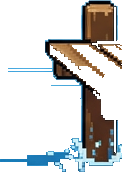
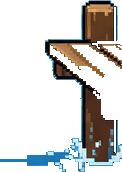
Clean up the enemy pier: remove background artifacts, fix floating/misplaced miners
- miner_pier.png had three leftover strips of unremoved sky-blue
  background from its original extraction, sticking out past the wood
  silhouette. Cleared them (color+connectivity confirmed as artifacts,
  not the legitimate splash, which uses similar blues).
- The pier's anchorY (61,23) pointed at the top of the post, nowhere
  near the plank -- miners stood in mid-air well above it. Re-measured
  empirically against a live-spawned miner; anchorY=68 lands feet flush
  on the plank.
- Bigger find: spawnMiner()/spawnVinegarMiner()'s stand/spawn x was a
  fixed absolute value tuned around the pier's old constant position.
  Once startWave() started rolling a random G.pierCx per wave (in an
  earlier commit), nothing carried that roll to the miners, so on any
  wave whose roll moved the pier, miners walked to empty air where the
  OLD position used to be. All spawn/re-entry sites now track G.pierCx.
- Also fixed two dead G.wave===6 checks (maybeSpawnVinegar/startWave)
  left over from the 5-wave cut, silently disabling the GDD §7.1
  second-vinegar-miner stretch feature; switched to WAVES.length.

Verified via Playwright against real spawnMiner()/startWave() calls
across multiple random pier rolls and miner skins. A separate,
pre-existing floating issue on the unskinned 'jumper' miner (a
different legacy sprite-atlas render path, drawMinerSprite) was found
but not touched -- noted in DESIGN.md as out of scope here.

Changed region(s): [[0.0738, 0.3779, 0.4426, 0.436], [0.418, 0.4942, 0.6639, 0.5233]]

diff --git a/claimjumper/index.html b/claimjumper/index.html
@@ -553,7 +553,10 @@ function startWave(){
   G.towerRot = rnd(-6, 6) * D2R;
   G.pierCx = 370 + rnd(-15, 15);
   G.pierRot = rnd(-8, 8) * D2R;
-  if (G.wave===6) G.vinegarSecondPlanned = Math.random()<0.15; // GDD §7.1 optional stretch
+  // v7.1: was G.wave===6 -- dead since the wave count was cut from 6 to 5
+  // (see WAVES above), silently disabling this GDD §7.1 stretch feature.
+  // WAVES.length tracks whichever wave is actually final now.
+  if (G.wave===WAVES.length) G.vinegarSecondPlanned = Math.random()<0.15;
   G.mode='WAVEINTRO'; G.t=0;
 }
 function startRun(){
@@ -913,10 +916,18 @@ function spawnMiner(){
   // v7 §4: the 'jumper' (rival-angler) miner is explicitly out of scope
   // for the skin system -- only 'rock' miners get a skin.
   const kind = (rocks>=2) ? 'jumper' : (Math.random()<0.6 ? 'rock' : 'jumper');
-  const tx = (kind==='rock') ? rnd(356,392) : rnd(352,372);
+  // v7.1: these ranges used to be fixed absolute x (356-392 / 352-372),
+  // tuned around the pier's old fixed x~370. Once startWave() started
+  // rolling a random G.pierCx per wave (+-15px), the miner's spawn/stand
+  // point stopped tracking the pier's actual position -- the miner would
+  // walk to a fixed spot near the OLD pier location regardless of where
+  // that wave's pier actually rendered, reading as floating off the
+  // structure on any wave whose roll moved the pier. Now relative to
+  // G.pierCx, same spread as before.
+  const tx = G.pierCx + ((kind==='rock') ? rnd(-14,22) : rnd(-18,2));
   const pool = rockSkinPool();
   const skin = (kind==='rock') ? pool[irnd(0,pool.length-1)] : null;
-  G.miners.push({ type:kind, x:404, tx, state:'walk', t:0, arm:0, skin });
+  G.miners.push({ type:kind, x:G.pierCx+34, tx, state:'walk', t:0, arm:0, skin });
 }
 // --- v2: the vinegar miner (GDD §7) ---
 function maybeSpawnVinegar(){
@@ -924,7 +935,7 @@ function maybeSpawnVinegar(){
     G.vinegarSpawned = true;
     return true;
   }
-  if (G.wave===6 && G.vinegarSpawned && G.vinegarSecondPlanned && !G.vinegarSecondUsed){
+  if (G.wave===WAVES.length && G.vinegarSpawned && G.vinegarSecondPlanned && !G.vinegarSecondUsed){
     G.vinegarSecondUsed = true;
     return true;
   }
@@ -933,7 +944,8 @@ function maybeSpawnVinegar(){
 function spawnVinegarMiner(){
   if (G.miners.length >= 4) return;
   // v7 §1.1: Miner/Soldier is the sole skin on the vinegar-spawn behavior.
-  G.miners.push({ type:'vinegar', x:404, tx: rnd(352,372), state:'walk', t:0, arm:0, skin:'soldier' });
+  // v7.1: tx/x relative to G.pierCx, same reasoning as spawnMiner() above.
+  G.miners.push({ type:'vinegar', x:G.pierCx+34, tx: G.pierCx+rnd(-18,2), state:'walk', t:0, arm:0, skin:'soldier' });
   G.banner = {text:'SOMETHING IN HIS HAND CATCHES THE LIGHT', t:45};
   sfxVinegarSpawn();
 }
@@ -1001,7 +1013,10 @@ function updateMiners(){
   }
   for (const m of G.miners){
     if (m.state==='gone'){
-      m.t -= 1; if (m.t<=0){ m.state='walk'; m.x=404; }
+      // v7.1: was the fixed x=404 -- same G.pierCx-tracking fix as the
+      // initial spawn in spawnMiner()/spawnVinegarMiner(), for a miner
+      // re-entering after retreating offscreen.
+      m.t -= 1; if (m.t<=0){ m.state='walk'; m.x=G.pierCx+34; }
     } else if (m.state==='walk'){
       m.x -= (m.type==='vinegar') ? 0.6 : 0.9; // vinegar miner approaches slower (GDD §6.3)
       if (m.x <= m.tx){
@@ -1330,8 +1345,8 @@ function drawBank(l, top, w, h){
 // reusable pier asset. Falling back to approach (b) instead: a flat
 // procedural platform in the same vector-plank language drawPlatform's
 // own fallback already uses (same PAL.wood/woodDk palette), sized to
-// the miner spawn/stand x-range (rock tx: 356-392, jumper/vinegar tx:
-// 352-372 -- see spawnMiner/spawnVinegarMiner). Reworking the miner
+// the miner spawn/stand x-range (rock tx: G.pierCx-14..+22, jumper/vinegar
+// tx: G.pierCx-18..+2 -- see spawnMiner/spawnVinegarMiner). Reworking the miner
 // sprite itself is out of scope here (GDD §4.4).
 function drawMinerPier(){
   // Real reference art for the miners' spawn pier, replacing the earlier
@@ -1340,7 +1355,15 @@ function drawMinerPier(){
   // pier occupied.
   if (PLAYER_ART.pier){
     const img = PLAYER_ART.pier;
-    const anchorX = 61, anchorY = 23;
+    // v7.1: anchorY was 23 (near the TOP of the post, above the plank
+    // entirely), not the plank's actual standing surface -- this needs to
+    // land at WATER_Y to match where drawMinerSkin()/drawMinerSprite()
+    // plant a miner's feet. Re-measured empirically via Playwright
+    // (iterating against a live-spawned miner, not just reading the PNG's
+    // alpha channel -- the silhouette's topmost edge turned out to be the
+    // plank's far/back edge, not the near corner a miner actually stands
+    // at). anchorY=68 lands the miner's feet flush on the plank surface.
+    const anchorX = 61, anchorY = 68;
     const scale = 0.30;
     // G.pierCx/pierRot: a small per-wave position+tilt roll (see
     // startWave()), same idea as the tower's. Rotated around the plank's
@@ -1792,8 +1815,8 @@ function drawFishShape(x, y, key, dir, sc, alpha, animate){
 // v3.0: sprite-backed miner body (WHITE_GUY.MP4 pier-walk footage -- a real
 // walk cycle for enemies, distinct on purpose from the player figure, which
 // slides in a fixed position by design, not by missing asset. See drawFigure().
-// Faces LEFT in-game (miners walk from x=404 toward the platform on the
-// left); source footage faces right, so this mirrors it. No windup/throw
+// Faces LEFT in-game (miners walk in from off-screen right, toward the
+// pier on the left); source footage faces right, so this mirrors it. No windup/throw
 // motion exists in the source, so the small procedural arm+rock/rod gesture
 // stays layered on top of the sprite body for 'wind' and 'jumper' -- same
 // reasoning as the player figure's COCKED-arm cut, just not literally

diff --git a/claimjumper/DESIGN.md b/claimjumper/DESIGN.md
@@ -321,3 +321,69 @@ change):
 Verified via Playwright: all 5 wave-intro cards show the correct
 year/name in order, and the final-wave tally screen no longer mentions
 "THE LAST RUN".
+
+## v7.1 enemy pier cleanup
+
+User feedback: "the enemy platform/fishing ladder... looks bad in
+comparison to the main sprite." Three real, distinct problems, not one:
+
+**Leftover background-removal artifacts.** `miner_pier.png`'s original
+extraction (from a small, low-detail reference photo -- nowhere near the
+tower reference's production value) left three thin strips of the
+source's sky-blue background still opaque: two 1-2px horizontal streaks
+sticking out to the left at the plank/post joint, and an isolated 1px
+line further down. Confirmed by color (uniform sky-blue, not wood) and
+by connectivity (no gradient into the wood -- a flood-fill boundary
+artifact, not intentional shading). Cleared by zeroing alpha along each
+streak from the image edge inward, stopping at the wood outline, rather
+than a blanket color-key (the legitimate base splash uses similar blues,
+so a global mask would have eaten it too).
+
+**Miner floating above the plank -- wrong anchor point.** `anchorX/
+anchorY` (the point in `miner_pier.png` that lands at `WATER_Y`, matching
+where `drawMinerSkin()`/`drawMinerSprite()` plant a miner's feet) was
+`(61, 23)` -- 23 is near the TOP of the post, nowhere near the plank at
+all. Re-measured empirically against a live-spawned miner (not just read
+off the PNG's alpha channel, which pointed at the plank's far/back edge,
+not the near corner a character actually stands on) -- `anchorY=68` lands
+the feet flush on the plank surface. Verified across multiple `rock`-type
+skins (targetH differs per skin but the render is always bottom-anchored
+at `WATER_Y`, so all align identically) and multiple random per-wave
+`pierRot` tilts.
+
+**Miner spawning at the pier's OLD fixed position -- a real regression
+from the per-wave pier randomization added earlier.** `spawnMiner()`/
+`spawnVinegarMiner()`'s `tx` (stand point) and initial `x` (walk-in start)
+were fixed absolute values (`rnd(356,392)`, `x:404`, etc.), tuned around
+the pier's old constant x≈370. Once `startWave()` started rolling a
+random `G.pierCx` per wave, nothing carried that roll to the miners --
+they'd walk to the OLD fixed spot regardless of where that wave's pier
+actually rendered, reading as standing on nothing on any wave whose roll
+moved the pier away from ~370. Same bug also lived in `updateMiners()`'s
+`state==='gone'` re-entry (`m.x=404` again) and in `maybeSpawnVinegar()`/
+`startWave()`'s `G.wave===6` checks, both dead since the 5-wave cut above
+(silently disabled the GDD §7.1 second-vinegar-miner stretch feature) --
+switched to `G.wave===WAVES.length`. All four spots now compute relative
+to `G.pierCx`, with the same spread as before, so a miner always tracks
+wherever that wave's pier actually rolled.
+
+**What wasn't changed, and why.** Considered rebuilding the plank+post
+crop entirely from a fresh crop of `player_tower.png` (to close the
+remaining production-value gap with the tower/legs, which already reuse
+that source) rather than just cleaning up the existing crop. Every
+candidate region tried (both the left and right corner posts) had its own
+uncleaned background residue outside the area the original tower
+extraction actually needed for gameplay -- background removal there would
+be a real re-do of that original extraction pass, not a quick reuse, and
+tangled with a rope-net pattern that a naive flood-fill damages (tolerant
+enough to clear the residual sky pulls blue-shaded net cells with it too).
+Deferred rather than rushed; the cleanup above fixes the concrete defects
+(artifacts, floating miner, wrong-position miner) without that larger
+asset-extraction risk. A `jumper`-type miner (the rival-angler, which
+never gets a skin -- see `spawnMiner()`'s own comment) still floats above
+the pier in the same way the skinned miners used to: it renders through a
+completely separate legacy sprite-atlas path (`drawMinerSprite`,
+`SPR_MINER_DATA.minerAtlas.feetCentre`) that predates this session and
+wasn't touched here -- flagged, not fixed, since it's a pre-existing
+miner-sprite calibration issue rather than anything about the pier
+itself.
